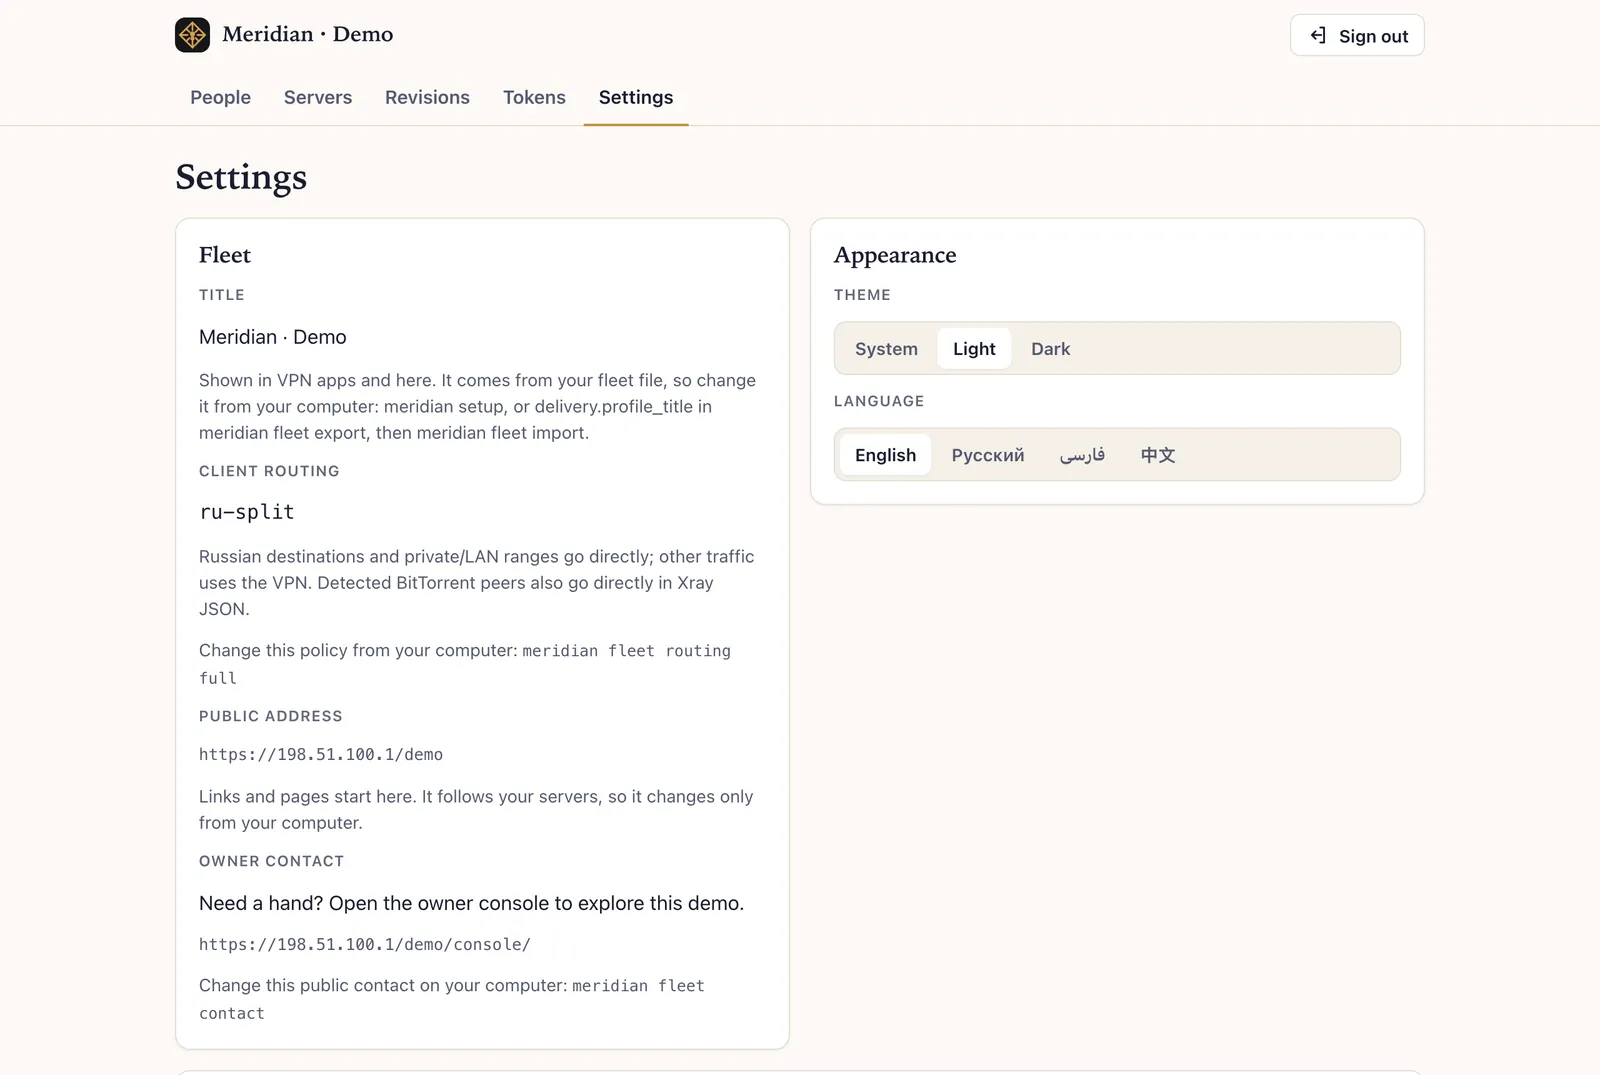
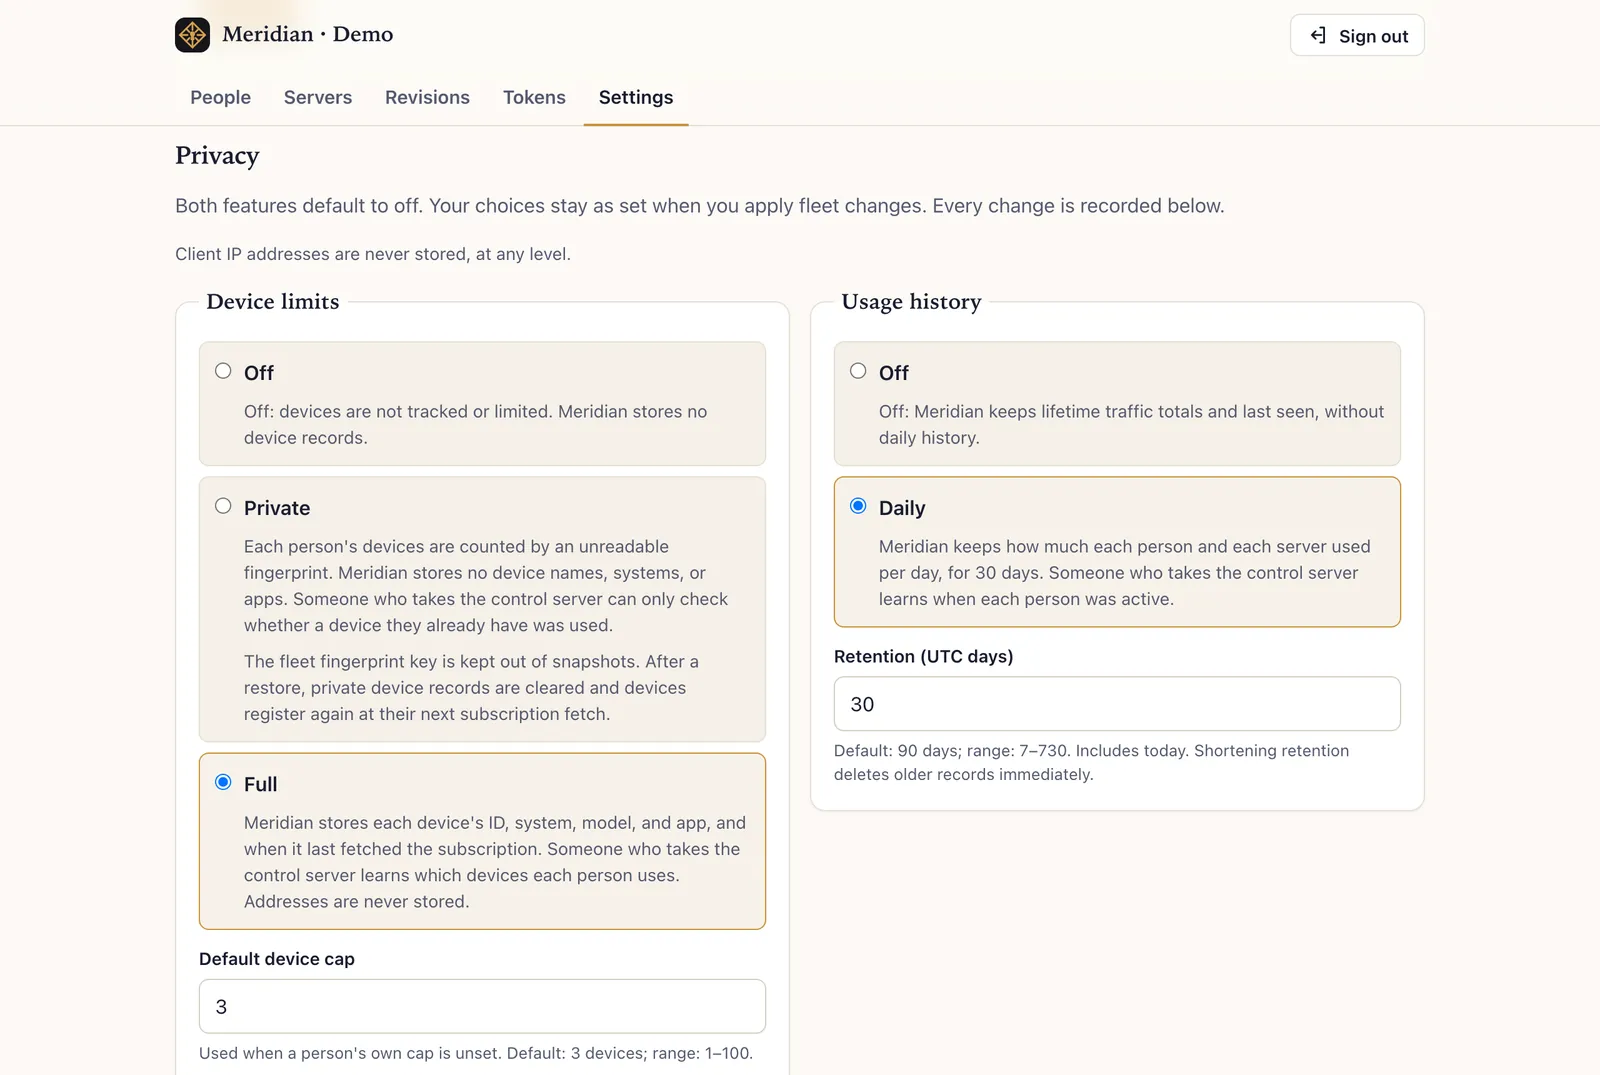
Match showcase captions to their screenshots
The Settings shot now shows the privacy choices, and each caption says
what its image shows. Thumbnails carry one accessible name each, the
Russian and Farsi titles say "your close ones/users" instead of a calque,
and the Russian phone alt text follows the English.

Refs: getmeridian/meridian#95

Changed region(s): [[0.0938, 0.1228, 0.875, 1.0], [0.5312, 0.6447, 0.8438, 0.7367], [0.125, 0.0, 0.1875, 0.0307]]

diff --git a/website/src/i18n/landing/ru.ts b/website/src/i18n/landing/ru.ts
@@ -165,19 +165,19 @@ export const ru: LandingStrings = {
 
   // Showcase
   'showcase.label': 'Посмотрите',
-  'showcase.title': 'Что получаете вы и ваши люди',
+  'showcase.title': 'Что получаете вы и ваши близкие',
   'showcase.desc': 'Обе демоверсии работают прямо в браузере на вымышленных данных. Нажимайте смело: всё ненастоящее, и никакие данные никуда не отправляются.',
   'showcase.page.title': 'Страница подключения',
   'showcase.page.text': 'У каждого человека своя страница: он выбирает приложение, добавляет подключение одним нажатием и видит свой трафик и сколько дней осталось.',
   'showcase.page.try': 'Открыть страницу подключения',
-  'showcase.page.alt': 'Страница подключения на телефоне: выбор приложения, подключение одним нажатием и инструкция',
+  'showcase.page.alt': 'Страница подключения на телефоне: выбор приложения, добавление подключения в одно касание и запуск VPN',
   'showcase.console.title': 'Консоль владельца',
   'showcase.console.text': 'Добавляйте людей, делитесь ссылками и QR-кодами, задавайте лимиты и сроки доступа и следите за серверами из любого браузера.',
   'showcase.console.try': 'Открыть консоль владельца',
   'showcase.console.alt': 'Список людей в консоли владельца: срок доступа, последняя активность, статус и трафик относительно лимита',
-  'showcase.person': 'Карточка человека: ссылка, QR-код, трафик, доступ и устройства.',
-  'showcase.servers': 'Серверы: состояние, версии, месячный объём трафика и дата следующего платежа.',
-  'showcase.settings': 'Настройки: сообщение для всех, язык, конфиденциальность и защита входа.',
+  'showcase.person': 'Карточка человека: ссылка, QR-код и страница подключения.',
+  'showcase.servers': 'Серверы: состояние, версии и месячный объём трафика.',
+  'showcase.settings': 'Конфиденциальность: обе функции по умолчанию выключены, и у каждого варианта написано, что он хранит.',
 
   // Connect
   'connect.label': 'Подключение',

diff --git a/website/src/i18n/landing/fa.ts b/website/src/i18n/landing/fa.ts
@@ -159,7 +159,7 @@ export const fa: LandingStrings = {
 
   // Showcase
   'showcase.label': 'ببینید',
-  'showcase.title': 'آنچه شما و افرادتان به دست میآورید',
+  'showcase.title': 'آنچه شما و کاربرانتان دریافت میکنید',
   'showcase.desc': 'هر دو نسخهٔ نمایشی با دادههای ساختگی در مرورگر شما اجرا میشوند. هر جا را خواستید امتحان کنید: هیچچیز واقعی نیست و چیزی به جایی فرستاده نمیشود.',
   'showcase.page.title': 'صفحهٔ اتصال',
   'showcase.page.text': 'هر نفر صفحهٔ خودش را باز میکند: برنامهای انتخاب میکند، اتصال را با یک لمس اضافه میکند و ترافیک و روزهای باقیماندهاش را میبیند.',
@@ -169,9 +169,9 @@ export const fa: LandingStrings = {
   'showcase.console.text': 'از هر مرورگری افراد را اضافه کنید، پیوندها و کدهای QR را بفرستید، محدودیت و تاریخ پایان تعیین کنید و سرورهایتان را زیر نظر داشته باشید.',
   'showcase.console.try': 'کنسول مالک را امتحان کنید',
   'showcase.console.alt': 'فهرست افراد در کنسول مالک: تاریخ پایان، آخرین زمان آنلاین، وضعیت و ترافیک هر نفر نسبت به محدودیتش',
-  'showcase.person': 'یک نفر: پیوند، کد QR، ترافیک، دسترسی و دستگاهها.',
-  'showcase.servers': 'سرورها: وضعیت، نسخهها، سهمیهٔ ماهانه و پرداخت بعدی.',
-  'showcase.settings': 'تنظیمات: اطلاعیه برای همه، زبان، حریم خصوصی و امنیت ورود.',
+  'showcase.person': 'یک نفر: پیوند، کد QR و صفحهٔ اتصال.',
+  'showcase.servers': 'سرورها: وضعیت، نسخهها و سهمیهٔ ماهانه.',
+  'showcase.settings': 'حریم خصوصی: هر دو قابلیت بهطور پیشفرض خاموشاند و هر گزینه میگوید چه چیزی را ذخیره میکند.',
 
   // Connect
   'connect.label': 'اتصال',

diff --git a/website/src/i18n/landing/zh.ts b/website/src/i18n/landing/zh.ts
@@ -169,9 +169,9 @@ export const zh: LandingStrings = {
   'showcase.console.text': '在任何浏览器中添加用户、分享链接和二维码、设置流量限额和到期时间，并随时查看服务器状态。',
   'showcase.console.try': '试用管理控制台',
   'showcase.console.alt': '管理控制台的用户列表：每个人的到期时间、最近在线时间、状态，以及相对于限额的流量',
-  'showcase.person': '单个用户：链接、二维码、流量、访问权限和设备。',
-  'showcase.servers': '服务器：健康状况、版本、每月流量额度和下次付款。',
-  'showcase.settings': '设置：面向所有人的通知、语言、隐私和登录安全。',
+  'showcase.person': '单个用户：链接、二维码和连接页面。',
+  'showcase.servers': '服务器：健康状况、版本和每月流量额度。',
+  'showcase.settings': '隐私：两项功能默认关闭，每个选项都会说明它存储什么。',
 
   // Connect
   'connect.label': '连接',

diff --git a/website/src/i18n/landing/en.ts b/website/src/i18n/landing/en.ts
@@ -174,9 +174,9 @@ export const en = {
   'showcase.console.text': 'Add people, share links and QR codes, set limits and expiry dates, and keep an eye on your servers, from any browser.',
   'showcase.console.try': 'Try the owner console',
   'showcase.console.alt': 'The owner console\'s People list: each person\'s expiry, last time online, status, and traffic against their limit',
-  'showcase.person': 'One person: link, QR code, traffic, access, and devices.',
-  'showcase.servers': 'Servers: health, versions, monthly allowance, and the next payment.',
-  'showcase.settings': 'Settings: a notice for everyone, language, privacy, and sign-in security.',
+  'showcase.person': 'One person: their link, QR code, and connection page.',
+  'showcase.servers': 'Servers: health, versions, and the monthly allowance.',
+  'showcase.settings': 'Privacy: both features start off, and each choice says what it stores.',
 
   // Connect
   'connect.label': 'Connect',

diff --git a/scripts/showcase_screenshots.py b/scripts/showcase_screenshots.py
@@ -48,8 +48,13 @@ def settle(page: Page, text: str, *, scroll_to: str | None = None) -> None:
     # The banner belongs to the live demo, not to product screenshots.
     page.add_style_tag(content="#demo-banner { display: none !important; }")
     if scroll_to:
-        # Start just above the element's own edge, so no neighbour shows cut in half.
-        page.locator(scroll_to).first.evaluate("e => window.scrollTo(0, e.getBoundingClientRect().top + scrollY - 12)")
+        # Start just above the element's own edge (below a sticky header), so no neighbour shows cut in half.
+        page.locator(scroll_to).first.evaluate(
+            "e => { const h = document.querySelector('header');"
+            " const pinned = h && ['sticky', 'fixed'].includes(getComputedStyle(h).position);"
+            " const top = pinned ? h.getBoundingClientRect().bottom : 0;"
+            " window.scrollTo(0, e.getBoundingClientRect().top + scrollY - top - 12); }"
+        )
     page.wait_for_timeout(400)  # Fonts and the usage bars finish drawing.
 
 
@@ -64,7 +69,7 @@ def console_shots(page: Page, base: str) -> None:
     settle(page, "Example Hosting")
     save(page, "console-servers")
     page.goto(base + "console/?theme=light#/settings")
-    settle(page, "Notice for everyone")
+    settle(page, "Notice for everyone", scroll_to="role=heading[name='Privacy']")
     save(page, "console-settings")
 
 

diff --git a/README.md b/README.md
@@ -35,7 +35,7 @@ Each person gets a connection page; you get a web console for the people and ser
   </tr>
   <tr>
     <td valign="top"><a href="https://getmeridian.org/demo/"><img src="https://raw.githubusercontent.com/getmeridian/meridian/main/website/public/img/showcase/connection-page-account.webp" alt="The account panel on a connection page: status, traffic this period, and days left"></a></td>
-    <td valign="top"><a href="https://getmeridian.org/demo/console/#/servers"><img src="https://raw.githubusercontent.com/getmeridian/meridian/main/website/public/img/showcase/console-servers.webp" alt="The owner console's Servers screen: health, versions, monthly allowance, and the next payment for each exit"></a></td>
+    <td valign="top"><a href="https://getmeridian.org/demo/console/#/servers"><img src="https://raw.githubusercontent.com/getmeridian/meridian/main/website/public/img/showcase/console-servers.webp" alt="The owner console's Servers screen: each exit's health, versions, and monthly traffic allowance"></a></td>
   </tr>
 </table>
 
